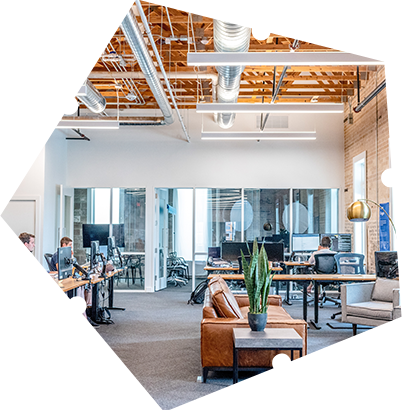
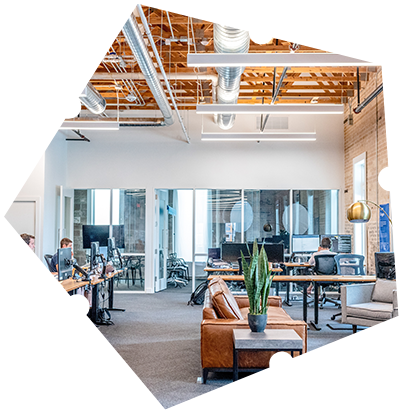
about + ours
smth else

diff --git a/index.html b/index.html
@@ -6,7 +6,7 @@
     <meta http-equiv="X-UA-Compatible" content="ie=edge">
     <title>Document</title>
     <link rel="stylesheet" href="css/style.css">
-    <link href="https://fonts.googleapis.com/css?family=Roboto:300,400,500,700&display=swap&subset=cyrillic" rel="stylesheet">
+    <link href="https://fonts.googleapis.com/css?family=Roboto:300,400,500,700,900&display=swap&subset=cyrillic" rel="stylesheet">
 </head>
 <body>
     <section class="header">
@@ -71,6 +71,7 @@
             <a href="#"><img src="img/slide_button.png" alt="1" class="slide_button"></a>
             <div class="wrapper_about">
                 <div class="slider">
+                    <img src="img/polygon.png" alt="polygon" class="polygon">
                     <img src="img/slider.png" alt="1" class="imgslider">
                 </div>
                 <div class="text_about">
@@ -81,10 +82,75 @@
                             Quis ipsum suspendisse ultrices gravida. Risus commodo viverra maecenas accumsan lacus vel facilisis.Quis ipsum suspendisse ultrices gravida. Risus commodo viverra maecenas accumsan lacus vel facilisis.
                             
                             Quis ipsum suspendisse ultrices gravida!</p>
+
+                            <div class="achivements">
+                                    <div class="first_column">
+                                        <div class="pic">92%</div>
+                                        <h3>Наших сайтов</h3>
+                                        <p>занимают лидирующие позиции в поисковых системах</p>
+                                    </div>
+                                    <div class="second_column">
+                                        <div class="pic">8/10</div>
+                                        <h3>Клиентов</h3>
+                                        <p>выбирают нас
+                                                после обсуждения
+                                                брифа</p>
+                                    </div>
+                                    <div class="third_column">
+                                        <div class="pic">150+</div>
+                                        <h3>Проектов</h3>
+                                        <p>успешно реализовано за 5 лет работы</p>
+                                    </div>
+                                    <div class="fourth_column">
+                                        <div class="pic">92%</div>
+                                        <h3>Lorem Ipsum</h3>
+                                        <p>lorem ipsum dolor sit amet, consectetur adipiscing elit, sed do eiusmod tempor incididunt ut labore et dolore magna aliqua. Quis ipsum suspendisse ultrices gravida. Risus commodo viverra maecenas accumsan lacus vel facilisis. </p>
+                                    </div>
+                                </div>
                 </div>
+                
             </div>
         </div>
 
+    </section>
+    <section class="ours">
+        <div class="container">
+            <h1 class="h1_main">Наши услуги</h1>
+            <h4 class="h4_main">Получите полный комплект для продвижения вашего бизнеса</h4>
+            <div class="wrapper_ours">
+                <div class="ours_item">
+                    <img src="img/ours/1.png" alt="1" class="first_img img">
+                    <h1>Создание сайтов</h1>
+                    <p>Lorem ipsum dolor sit amet, consectetur adipiscing elit, sed do eiusmod tempor incididunt ut labore et dolore magna aliqua.</p>
+
+                </div>
+                <div class="ours_item">
+                    <h1>Продвижение сайтов</h1>
+                    <p>Lorem ipsum dolor sit amet, consectetur adipiscing elit, sed do eiusmod tempor incididunt ut labore et dolore magna aliqua.</p>
+                    <img src="img/ours/2.png" alt="2" class="second_img img">
+                </div>
+                <div class="ours_item">
+                    <img src="img/ours/3.png" alt="3" class="third img">
+                    <h1>SEO Оптимизация</h1>
+                    <p>Lorem ipsum dolor sit amet, consectetur adipiscing elit, sed do eiusmod tempor incididunt ut labore et dolore magna aliqua.</p>
+                </div>
+                <div class="ours_item">
+                    <h1>SMM Продвижение</h1>
+                    <p>Lorem ipsum dolor sit amet, consectetur adipiscing elit, sed do eiusmod tempor incididunt ut labore et dolore magna aliqua.</p>
+                    <img src="img/ours/4.png" alt="4" class="fourth img">
+                </div>
+                <div class="ours_item">
+                    <img src="img/ours/5.png" alt="5" class="fiveth img">
+                    <h1>Продающие тексты</h1>
+                    <p>Lorem ipsum dolor sit amet, consectetur adipiscing elit, sed do eiusmod tempor incididunt ut labore et dolore magna aliqua.</p>
+                </div>
+                <div class="ours_item">
+                    <h1>Сайт «Под ключ»</h1>
+                    <p>Lorem ipsum dolor sit amet, consectetur adipiscing elit, sed do eiusmod tempor incididunt ut labore et dolore magna aliqua.</p>
+                    <img src="img/ours/6.png" alt="6" class="sixth img">
+                </div>
+            </div>
+        </div>
     </section>
 </body>
 </html>

diff --git a/css/style.scss b/css/style.scss
@@ -11,6 +11,7 @@ body {
     @include roboto-font;
 }
 // ======== HEADER ========= //
+
 .header_wrapper {
     width: 1170px ;
     margin: 0 auto;
@@ -138,4 +139,116 @@ ul {
 }
 .text_about {
     width: 50%;
+}
+.text_about {
+    h1 {
+        color: #ffffff;
+        font-family: Roboto;
+        font-size: 36px;
+        font-weight: 400;
+        
+    }
+    h2 {
+        color: #fefefe;
+        font-family: Roboto;
+        font-size: 24px;
+        font-weight: 300;
+      
+    }
+    p {
+        color: #ffffff;
+        font-family: Roboto;
+        font-size: 18px;
+        font-weight: 300;
+    }
+}
+.polygon {
+    position: absolute;
+    left: 100px;
+}
+.achivements {
+    display: flex;
+    justify-content: space-around;
+}
+.pic {
+    text-align: center;
+    padding-top: 35px;
+    color: #0072bc;
+    font-family: Roboto;
+    font-size: 24px;
+    font-weight: 700;
+}
+.first_column,
+.second_column,
+.third_column,
+.fourth_column {
+    background: url(../img/big_pic.png) center center no-repeat;
+    max-width: 150px;
+    max-height: 100px;
+    h3 {
+        color: #ffffff;
+        font-family: "Roboto";
+        font-size: 16px;
+        font-weight: 900;
+        max-width: 150px;
+        text-align: center;
+        margin: 0;
+        margin-top: 31px;
+    }
+    p {
+        margin: 0;
+        color: #ffffff;
+        font-family: Roboto;
+        font-size: 14px;
+        font-weight: 400;
+        max-width: 150px;
+        max-height: 47px;
+        text-align: center;
+        overflow: hidden;
+        margin-top: 9px;
+    }
+    
+
+}
+.ours {
+    margin-right: 105px;
+    margin-left: 105px;
+}
+.wrapper_ours {
+    display: flex;
+    justify-content: space-between;
+    h1 {
+        text-align: center;
+        color: #181818;
+        font-family: Roboto;
+        font-size: 18px;
+        font-weight: 500;
+    }
+    p {
+        color: #0f0f0f;
+        font-family: Roboto;
+        font-size: 14px;
+        font-weight: 300;
+        line-height: 18px;
+    }
+}
+.img {
+    display: block;
+    margin: 0 auto;
+}
+.h1_main {
+    color: #0f0f0f;
+    font-family: Roboto;
+    font-size: 36px;
+    font-weight: 400;
+    text-align: center;
+    margin-bottom: 0px;
+}
+.h4_main {
+    color: #444444;
+    font-family: Roboto;
+    font-size: 24px;
+    font-weight: 300;
+    text-align: center;
+    margin-top: 11px;
 }

diff --git a/css/style.css b/css/style.css
@@ -120,3 +120,111 @@ ul {
 
 .text_about {
   width: 50%; }
+
+.text_about h1 {
+  color: #ffffff;
+  font-family: Roboto;
+  font-size: 36px;
+  font-weight: 400; }
+
+.text_about h2 {
+  color: #fefefe;
+  font-family: Roboto;
+  font-size: 24px;
+  font-weight: 300; }
+
+.text_about p {
+  color: #ffffff;
+  font-family: Roboto;
+  font-size: 18px;
+  font-weight: 300; }
+
+.polygon {
+  position: absolute;
+  left: 100px; }
+
+.achivements {
+  display: flex;
+  justify-content: space-around; }
+
+.pic {
+  text-align: center;
+  padding-top: 35px;
+  color: #0072bc;
+  font-family: Roboto;
+  font-size: 24px;
+  font-weight: 700; }
+
+.first_column,
+.second_column,
+.third_column,
+.fourth_column {
+  background: url(../img/big_pic.png) center center no-repeat;
+  max-width: 150px;
+  max-height: 100px; }
+  .first_column h3,
+  .second_column h3,
+  .third_column h3,
+  .fourth_column h3 {
+    color: #ffffff;
+    font-family: "Roboto";
+    font-size: 16px;
+    font-weight: 900;
+    max-width: 150px;
+    text-align: center;
+    margin: 0;
+    margin-top: 31px; }
+  .first_column p,
+  .second_column p,
+  .third_column p,
+  .fourth_column p {
+    margin: 0;
+    color: #ffffff;
+    font-family: Roboto;
+    font-size: 14px;
+    font-weight: 400;
+    max-width: 150px;
+    max-height: 47px;
+    text-align: center;
+    overflow: hidden;
+    margin-top: 9px; }
+
+.ours {
+  margin-right: 105px;
+  margin-left: 105px; }
+
+.wrapper_ours {
+  display: flex;
+  justify-content: space-between; }
+  .wrapper_ours h1 {
+    text-align: center;
+    color: #181818;
+    font-family: Roboto;
+    font-size: 18px;
+    font-weight: 500; }
+  .wrapper_ours p {
+    color: #0f0f0f;
+    font-family: Roboto;
+    font-size: 14px;
+    font-weight: 300;
+    line-height: 18px; }
+
+.img {
+  display: block;
+  margin: 0 auto; }
+
+.h1_main {
+  color: #0f0f0f;
+  font-family: Roboto;
+  font-size: 36px;
+  font-weight: 400;
+  text-align: center;
+  margin-bottom: 0px; }
+
+.h4_main {
+  color: #444444;
+  font-family: Roboto;
+  font-size: 24px;
+  font-weight: 300;
+  text-align: center;
+  margin-top: 11px; }
